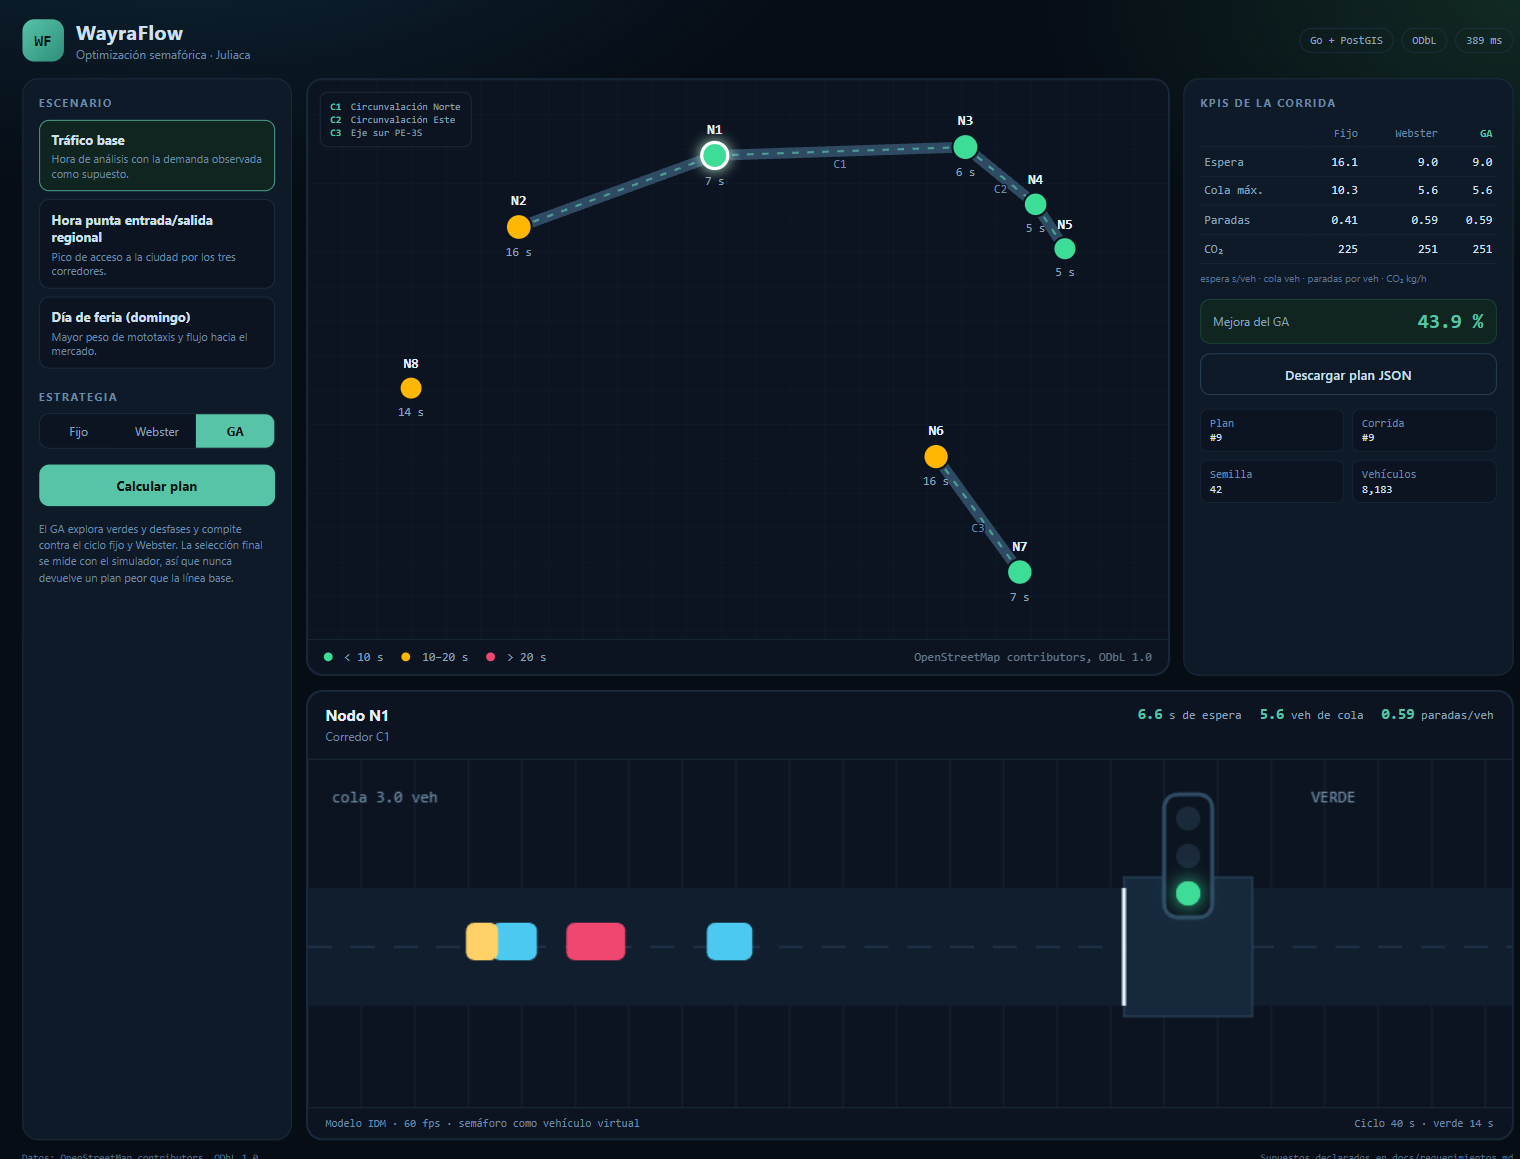
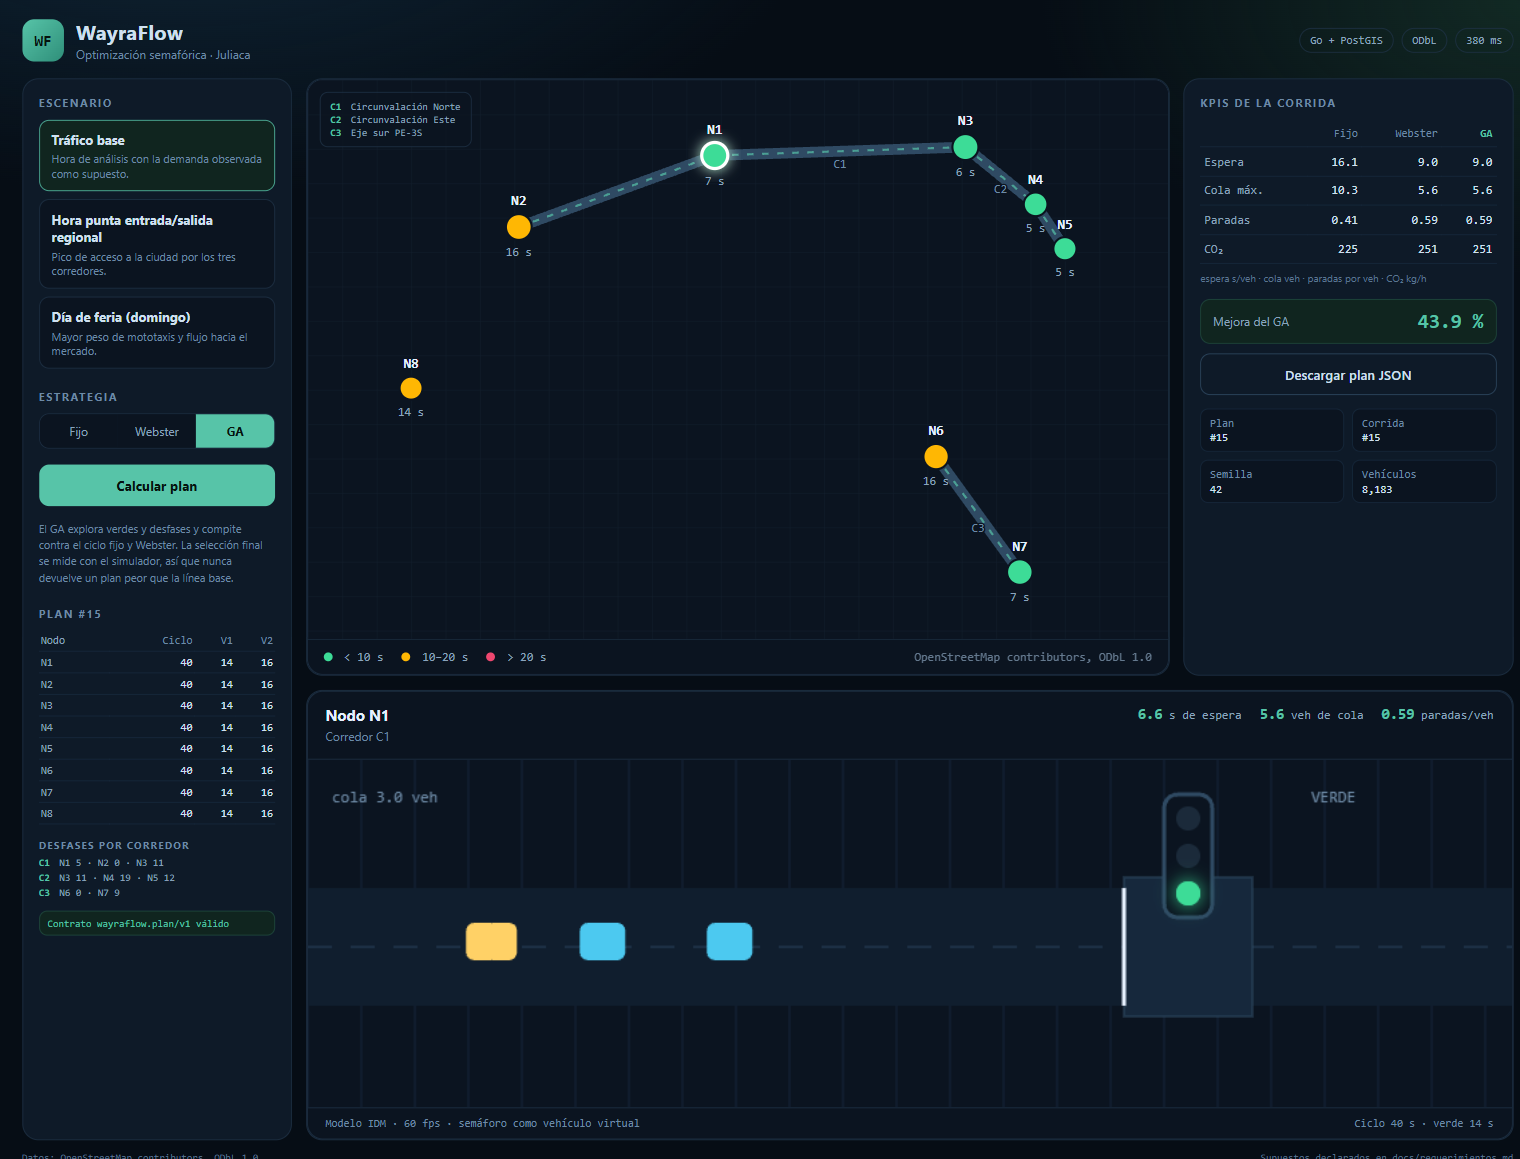
feat(web): muestra el plan semaforico y sus desfases en el tablero

Changed region(s): [[0.0309, 0.7144, 0.1546, 0.8076], [0.3092, 0.7765, 0.4329, 0.8387], [0.0309, 0.528, 0.0618, 0.5591]]

diff --git a/frontend/src/app/features/dashboard/dashboard.ts b/frontend/src/app/features/dashboard/dashboard.ts
@@ -1,6 +1,6 @@
 import { DecimalPipe } from '@angular/common';
 import { Component, computed, inject, signal } from '@angular/core';
-import { ApiService, FeatureCollection, NodeKPI, PlanResponse, Scenario, Strategy } from '../../core/api';
+import { ApiService, CorridorPlan, FeatureCollection, NodeKPI, PlanResponse, Scenario, Strategy } from '../../core/api';
 import { NetworkMap } from '../map/network-map';
 import { NodeSim } from '../node-sim/node-sim';
 
@@ -58,6 +58,30 @@ import { NodeSim } from '../node-sim/node-sim';
           El GA explora verdes y desfases y compite contra el ciclo fijo y Webster. La selección final
           se mide con el simulador, así que nunca devuelve un plan peor que la línea base.
         </p>
+
+        @if (result(); as r) {
+          <h2>Plan #{{ r.planId }}</h2>
+          <table class="plan">
+            <thead>
+              <tr><th>Nodo</th><th>Ciclo</th><th>V1</th><th>V2</th></tr>
+            </thead>
+            <tbody>
+              @for (n of r.plan.nodes; track n.id) {
+                <tr>
+                  <td>{{ n.id }}</td>
+                  <td>{{ n.cycle_s | number: '1.0-0' }}</td>
+                  <td>{{ n.phases[0].green_s | number: '1.0-0' }}</td>
+                  <td>{{ n.phases[1] ? (n.phases[1].green_s | number: '1.0-0') : '—' }}</td>
+                </tr>
+              }
+            </tbody>
+          </table>
+          <h3>Desfases por corredor</h3>
+          @for (c of r.plan.corridors; track c.id) {
+            <p class="offset"><b>{{ c.id }}</b> {{ offsets(c) }}</p>
+          }
+          <p class="schema">Contrato {{ r.plan.schema }} válido</p>
+        }
       </aside>
 
       <section class="panel map-panel">
@@ -322,6 +346,40 @@ import { NodeSim } from '../node-sim/node-sim';
       font-size: 11px;
       line-height: 1.5;
     }
+    table.plan {
+      font-size: 11px;
+    }
+    table.plan th,
+    table.plan td {
+      padding: 4px 2px;
+    }
+    h3 {
+      margin: 14px 0 6px;
+      font-size: 10px;
+      letter-spacing: 0.12em;
+      text-transform: uppercase;
+      color: #6d8aa6;
+    }
+    .offset {
+      margin: 0 0 4px;
+      font-family: ui-monospace, monospace;
+      font-size: 10px;
+      color: #8aa4bd;
+    }
+    .offset b {
+      color: #57c4a8;
+      margin-right: 4px;
+    }
+    .schema {
+      margin: 12px 0 0;
+      padding: 6px 8px;
+      border-radius: 8px;
+      border: 1px solid #1f4a3d;
+      background: #10251f;
+      color: #57c4a8;
+      font-size: 10px;
+      font-family: ui-monospace, monospace;
+    }
     .error {
       margin: 10px 0 0;
       color: #ef476f;
@@ -496,5 +554,11 @@ export class Dashboard {
     if (res) {
       window.open(this.api.downloadUrl(res.planId), '_blank');
     }
+  }
+
+  offsets(corridor: CorridorPlan): string {
+    return Object.entries(corridor.offsets_s)
+      .map(([id, seconds]) => `${id} ${seconds.toFixed(0)}`)
+      .join(' · ');
   }
 }
